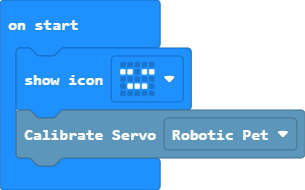
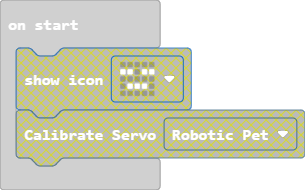
Update main.blocks, main.ts, LINKIECODE.ts

diff --git a/LINKIECODE.ts b/LINKIECODE.ts
@@ -378,4 +378,19 @@ namespace LINKIECODE {
             i++;
         }
     }
+
+    function TailWhip() {
+        if (Math.randomBoolean) {
+            let i = 0;
+            while (i < 4) {
+                ServoBot(Servos.S5, 20);
+                basic.pause(200);
+                ServoBot(Servos.S5, 70);
+                basic.pause(200);
+                i++
+            }
+        } else {
+            basic.pause(1600)
+        }
+    }
 }

diff --git a/main.ts b/main.ts
@@ -1,5 +1,3 @@
-basic.showIcon(IconNames.Asleep)
-LINKIECODE.Calibrate(LINKIECODE.ToyMode.RoboticPet)
 basic.forever(function () {
 	
 })
